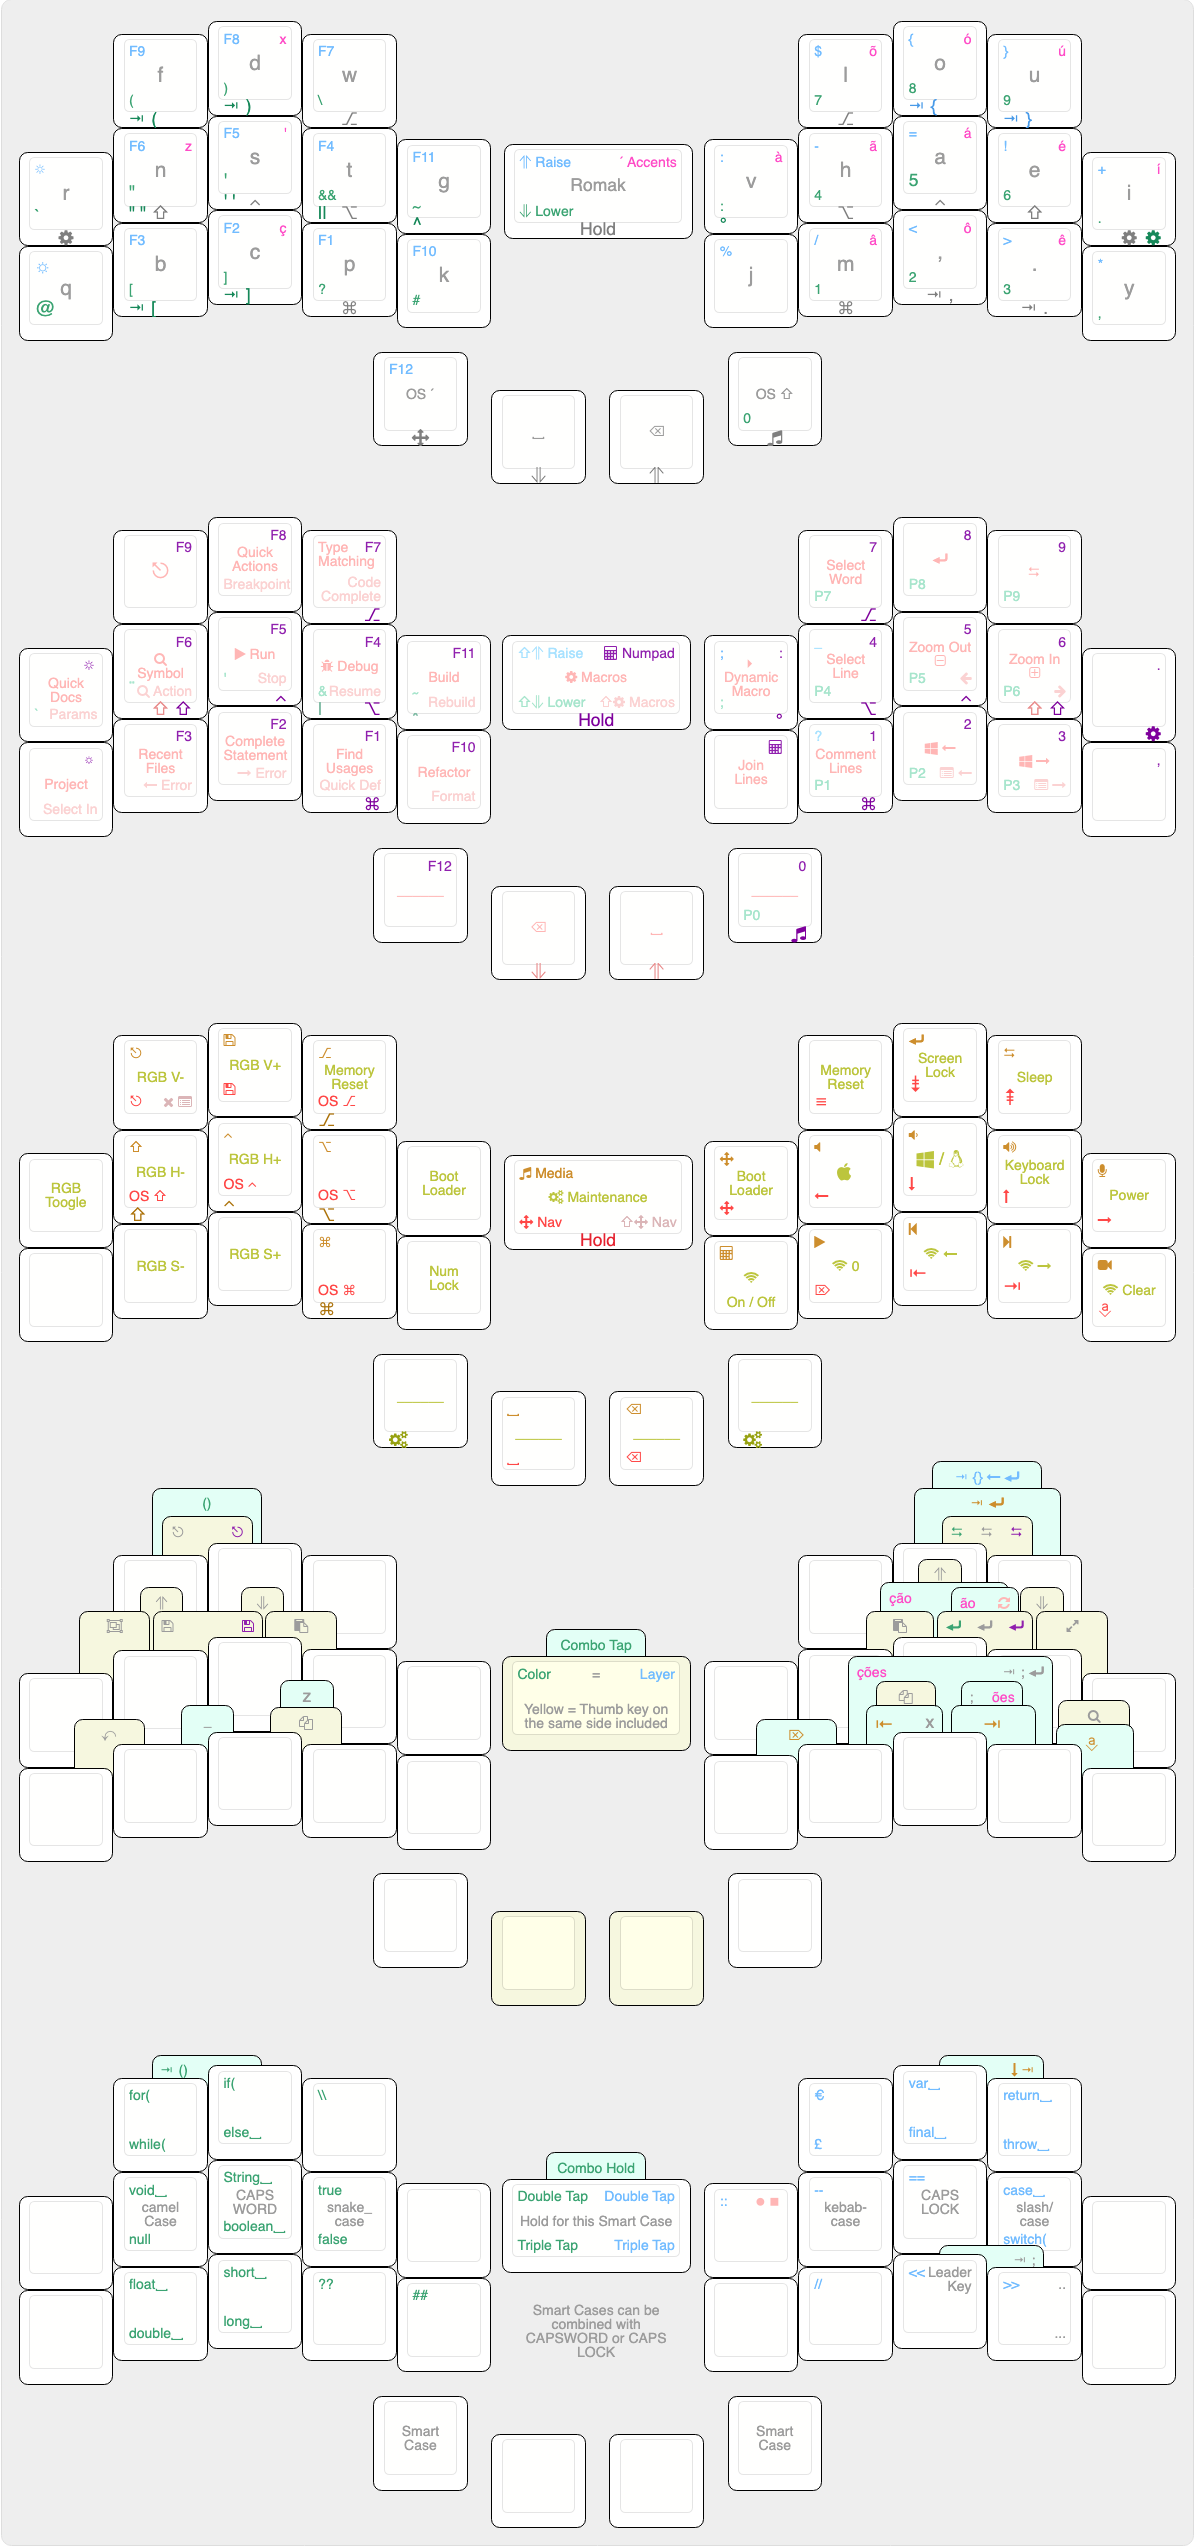
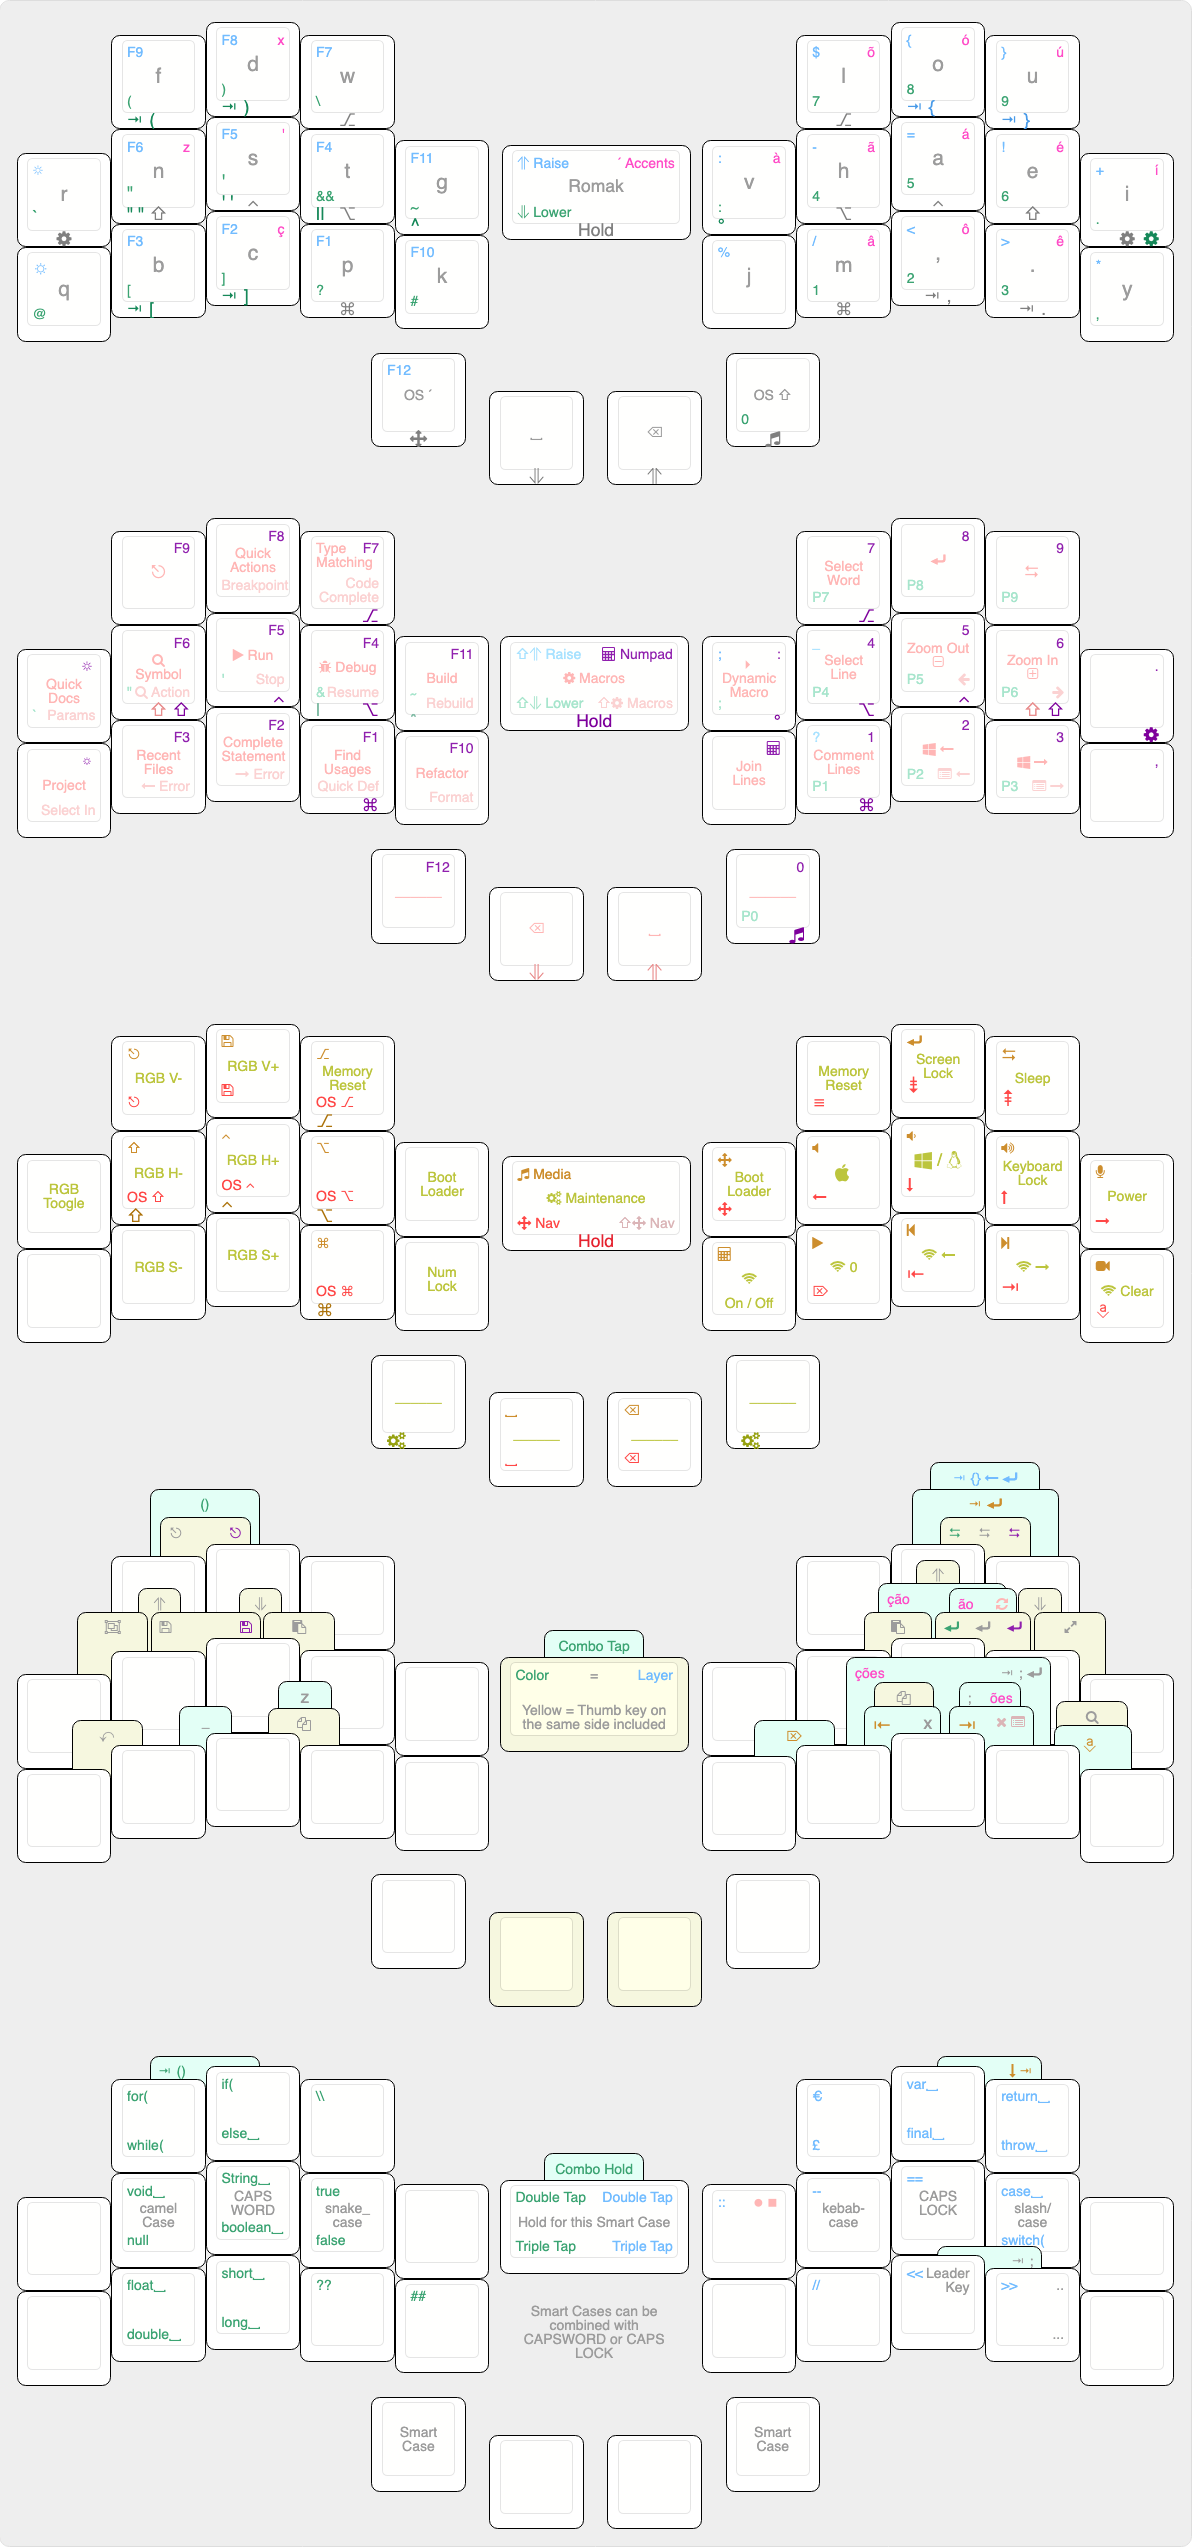
move close tab to combo

diff --git a/src/qmk/users/rafaelromao/features/combos.c b/src/qmk/users/rafaelromao/features/combos.c
@@ -20,7 +20,7 @@ const uint16_t PROGMEM r_rai_cur_combo[] = {TD_LCRB, TD_RCRB, COMBO_END};
 
 // Navigation
 
-const uint16_t PROGMEM l_nav_esv_combo[] = {MC_ESCQ, MC_SAVE, COMBO_END};
+const uint16_t PROGMEM l_nav_esv_combo[] = {MC_ESC, MC_SAVE, COMBO_END};
 
 // Media
 
@@ -40,6 +40,7 @@ const uint16_t PROGMEM r_ng_coes_combo[] = {MC_CR_A, MC_CR_O, MC_CR_E, COMBO_END
 // Macros
 
 const uint16_t PROGMEM r_mac_ref_combo[] = {MC_MODM, SF_MODP, COMBO_END};
+const uint16_t PROGMEM r_mac_clo_combo[] = {MC_SWLE, MC_SWRI, COMBO_END};
 
 // Base
 
@@ -75,18 +76,18 @@ const uint16_t PROGMEM rom_reset_combo[] = {KCR_MAC, KC_Q, KCI_MAC, KC_Y, COMBO_
 const uint16_t PROGMEM secret_1_combo[] = {SEC_1, SEC_2, SEC_3, SEC_4, COMBO_END};
 
 combo_t key_combos[COMBO_COUNT] = {
-    COMBO(l_rom_z_combo, KC_Z),      COMBO(r_rom_x_combo, KC_X),         COMBO(l_num_esc_combo, KC_ESC),
-    COMBO(l_nav_esv_combo, MC_ESAV), COMBO(l_num_sav_combo, MC_SAVE),    COMBO(r_num_ent_combo, KC_ENT),
-    COMBO(l_low_par_combo, TD_PARN), COMBO(r_low_tab_combo, KC_TAB),     COMBO(r_low_ent_combo, KC_ENT),
-    COMBO(r_ng_ao_combo, MC_AO),     COMBO(r_ng_cao_combo, MC_CAO),      COMBO(r_ng_oes_combo, MC_OES),
-    COMBO(r_ng_coes_combo, MC_COES), COMBO(r_mac_ref_combo, MC_REF),     COMBO(r_rom_cop_combo, MC_COPY),
-    COMBO(r_rom_sco_combo, TD_SCLE), COMBO(l_rom_usc_combo, MC_UNDS),    COMBO(l_rom_sal_combo, MC_SELC),
-    COMBO(r_rom_pas_combo, MC_PAST), COMBO(l_rom_rai_combo, OS_RAI),     COMBO(l_rom_low_combo, OS_LOW),
-    COMBO(l_rom_sav_combo, MC_SAVE), COMBO(l_rom_pas_combo, MC_PAST),    COMBO(l_rom_esc_combo, KC_ESC),
-    COMBO(r_rom_fin_combo, MC_FIND), COMBO(r_rom_sce_combo, MC_SENT),    COMBO(l_rom_und_combo, MC_UNDO),
-    COMBO(l_rom_cop_combo, MC_COPY), COMBO(r_rom_tab_combo, KC_TAB),     COMBO(r_rom_low_combo, OS_LOW),
-    COMBO(r_rom_rai_combo, OS_RAI),  COMBO(r_rom_ent_combo, KC_ENT),     COMBO(r_rom_ful_combo, MC_FULL),
-    COMBO(r_med_hom_combo, KC_HOME), COMBO(r_med_end_combo, KC_END),     COMBO(r_rai_cur_combo, MC_CUR),
-    COMBO(r_med_del_combo, KC_DEL),  COMBO(r_med_ins_combo, KC_INS),     COMBO(r_med_ent_combo, TD_EENT),
-    COMBO(rom_reset_combo, QK_BOOT), COMBO(secret_1_combo, MC_SECRET_1),
+    COMBO(l_rom_z_combo, KC_Z),      COMBO(r_rom_x_combo, KC_X),      COMBO(l_num_esc_combo, KC_ESC),
+    COMBO(l_nav_esv_combo, MC_ESAV), COMBO(l_num_sav_combo, MC_SAVE), COMBO(r_num_ent_combo, KC_ENT),
+    COMBO(l_low_par_combo, TD_PARN), COMBO(r_low_tab_combo, KC_TAB),  COMBO(r_low_ent_combo, KC_ENT),
+    COMBO(r_ng_ao_combo, MC_AO),     COMBO(r_ng_cao_combo, MC_CAO),   COMBO(r_ng_oes_combo, MC_OES),
+    COMBO(r_ng_coes_combo, MC_COES), COMBO(r_mac_ref_combo, MC_REF),  COMBO(r_mac_clo_combo, MC_CTAB),
+    COMBO(r_rom_cop_combo, MC_COPY), COMBO(r_rom_sco_combo, TD_SCLE), COMBO(l_rom_usc_combo, MC_UNDS),
+    COMBO(l_rom_sal_combo, MC_SELC), COMBO(r_rom_pas_combo, MC_PAST), COMBO(l_rom_rai_combo, OS_RAI),
+    COMBO(l_rom_low_combo, OS_LOW),  COMBO(l_rom_sav_combo, MC_SAVE), COMBO(l_rom_pas_combo, MC_PAST),
+    COMBO(l_rom_esc_combo, KC_ESC),  COMBO(r_rom_fin_combo, MC_FIND), COMBO(r_rom_sce_combo, MC_SENT),
+    COMBO(l_rom_und_combo, MC_UNDO), COMBO(l_rom_cop_combo, MC_COPY), COMBO(r_rom_tab_combo, KC_TAB),
+    COMBO(r_rom_low_combo, OS_LOW),  COMBO(r_rom_rai_combo, OS_RAI),  COMBO(r_rom_ent_combo, KC_ENT),
+    COMBO(r_rom_ful_combo, MC_FULL), COMBO(r_med_hom_combo, KC_HOME), COMBO(r_med_end_combo, KC_END),
+    COMBO(r_rai_cur_combo, MC_CUR),  COMBO(r_med_del_combo, KC_DEL),  COMBO(r_med_ins_combo, KC_INS),
+    COMBO(r_med_ent_combo, TD_EENT), COMBO(rom_reset_combo, QK_BOOT), COMBO(secret_1_combo, MC_SECRET_1),
 };

diff --git a/src/qmk/users/rafaelromao/definitions/keymap_blocks.h b/src/qmk/users/rafaelromao/definitions/keymap_blocks.h
@@ -65,7 +65,7 @@
 #define ___________________RAISE_R3____________________ KC_PERC , KC_SLSH , KC_LT   , KC_GT   , KC_ASTR
 #define ____RAISE_R4_____                               _______ , _______
 
-#define ___________________MEDIA_L1____________________ XXXXXXX , MC_ESCQ , MC_SAVE , KC_RALT , XXXXXXX
+#define ___________________MEDIA_L1____________________ XXXXXXX , MC_ESC  , MC_SAVE , KC_RALT , XXXXXXX
 #define ___________________MEDIA_L2____________________ XXXXXXX , KC_LSFT , KC_LCTL , KC_LALT , XXXXXXX
 #define ___________________MEDIA_L3____________________ XXXXXXX , XXXXXXX , XXXXXXX , KC_LGUI , XXXXXXX
 #define ____MEDIA_L4_____                                                             MAI_ACT , KC_SPC
@@ -75,7 +75,7 @@
 #define ___________________MEDIA_R3____________________ TG_NUM  , KC_MPLY , KC_MPRV , KC_MNXT , HYPR_V
 #define ____MEDIA_R4_____                               KC_BSPC , _______
 
-#define ___________________NAVIGATION_L1_______________ XXXXXXX , MC_ESCQ , MC_SAVE , OS_RALT , XXXXXXX
+#define ___________________NAVIGATION_L1_______________ XXXXXXX , MC_ESC  , MC_SAVE , OS_RALT , XXXXXXX
 #define ___________________NAVIGATION_L2_______________ XXXXXXX , OS_LSFT , OS_LCTL , OS_LALT , XXXXXXX
 #define ___________________NAVIGATION_L3_______________ XXXXXXX , XXXXXXX , XXXXXXX , OS_LGUI , XXXXXXX
 #define __NAVIGATION_L4__                                                             _______ , KC_SPC

diff --git a/src/qmk/users/rafaelromao/features/macros.c b/src/qmk/users/rafaelromao/features/macros.c
@@ -381,8 +381,8 @@ process_record_result_t process_macro_keycode(uint16_t keycode, bool isOneShotSh
             tap_code(KC_ENT); // It works when shifted, since shifted is removed for macros
             return PROCESS_RECORD_RETURN_FALSE;
 
-            // Esc, Close Tab
-        case MC_ESCQ:
+            // Close Tab
+        case MC_CTAB:
             if (isShifted) {
                 if (isMacOS) {
                     SEND_STRING(SS_LGUI(SS_TAP(X_W)));
@@ -390,8 +390,6 @@ process_record_result_t process_macro_keycode(uint16_t keycode, bool isOneShotSh
                     SEND_STRING(SS_LCTL(SS_TAP(X_F4)));
                     break;
                 }
-            } else {
-                tap_code(KC_ESC);
             }
             return PROCESS_RECORD_RETURN_FALSE;
 

diff --git a/src/qmk/users/rafaelromao/definitions/keycodes.h b/src/qmk/users/rafaelromao/definitions/keycodes.h
@@ -72,7 +72,7 @@ enum {
     SFT_MACRO_START,
 
     // Common shortcuts
-    MC_SELC, MC_SAVE, MC_UNDO, MC_COPY, 
+    MC_SELC, MC_SAVE, MC_UNDO, MC_COPY, MC_CTAB, 
     MC_PAST, MC_LOCK, MC_FULL, MC_FIND, MC_REF,
 
     // IDE shortcuts
@@ -85,7 +85,7 @@ enum {
     STR_MACRO_START,
     
     MC_UNDS, MC_ENT, MC_TAB, MC_ESC, 
-    MC_ESCQ, MC_ESAV, MC_SENT, MC_CUR,  
+    MC_ESAV, MC_SENT, MC_CUR,  
 
     // End macros that can be shifted
     SFT_MACRO_END,

diff --git a/src/qmk/users/rafaelromao/config.h b/src/qmk/users/rafaelromao/config.h
@@ -23,7 +23,7 @@
 #define LEADER_NO_TIMEOUT
 
 // Configure combos
-#define COMBO_COUNT 41
+#define COMBO_COUNT 42
 #define COMBO_TERM 30
 #define EXTRA_SHORT_COMBOS
 #define COMBO_STRICT_TIMER
